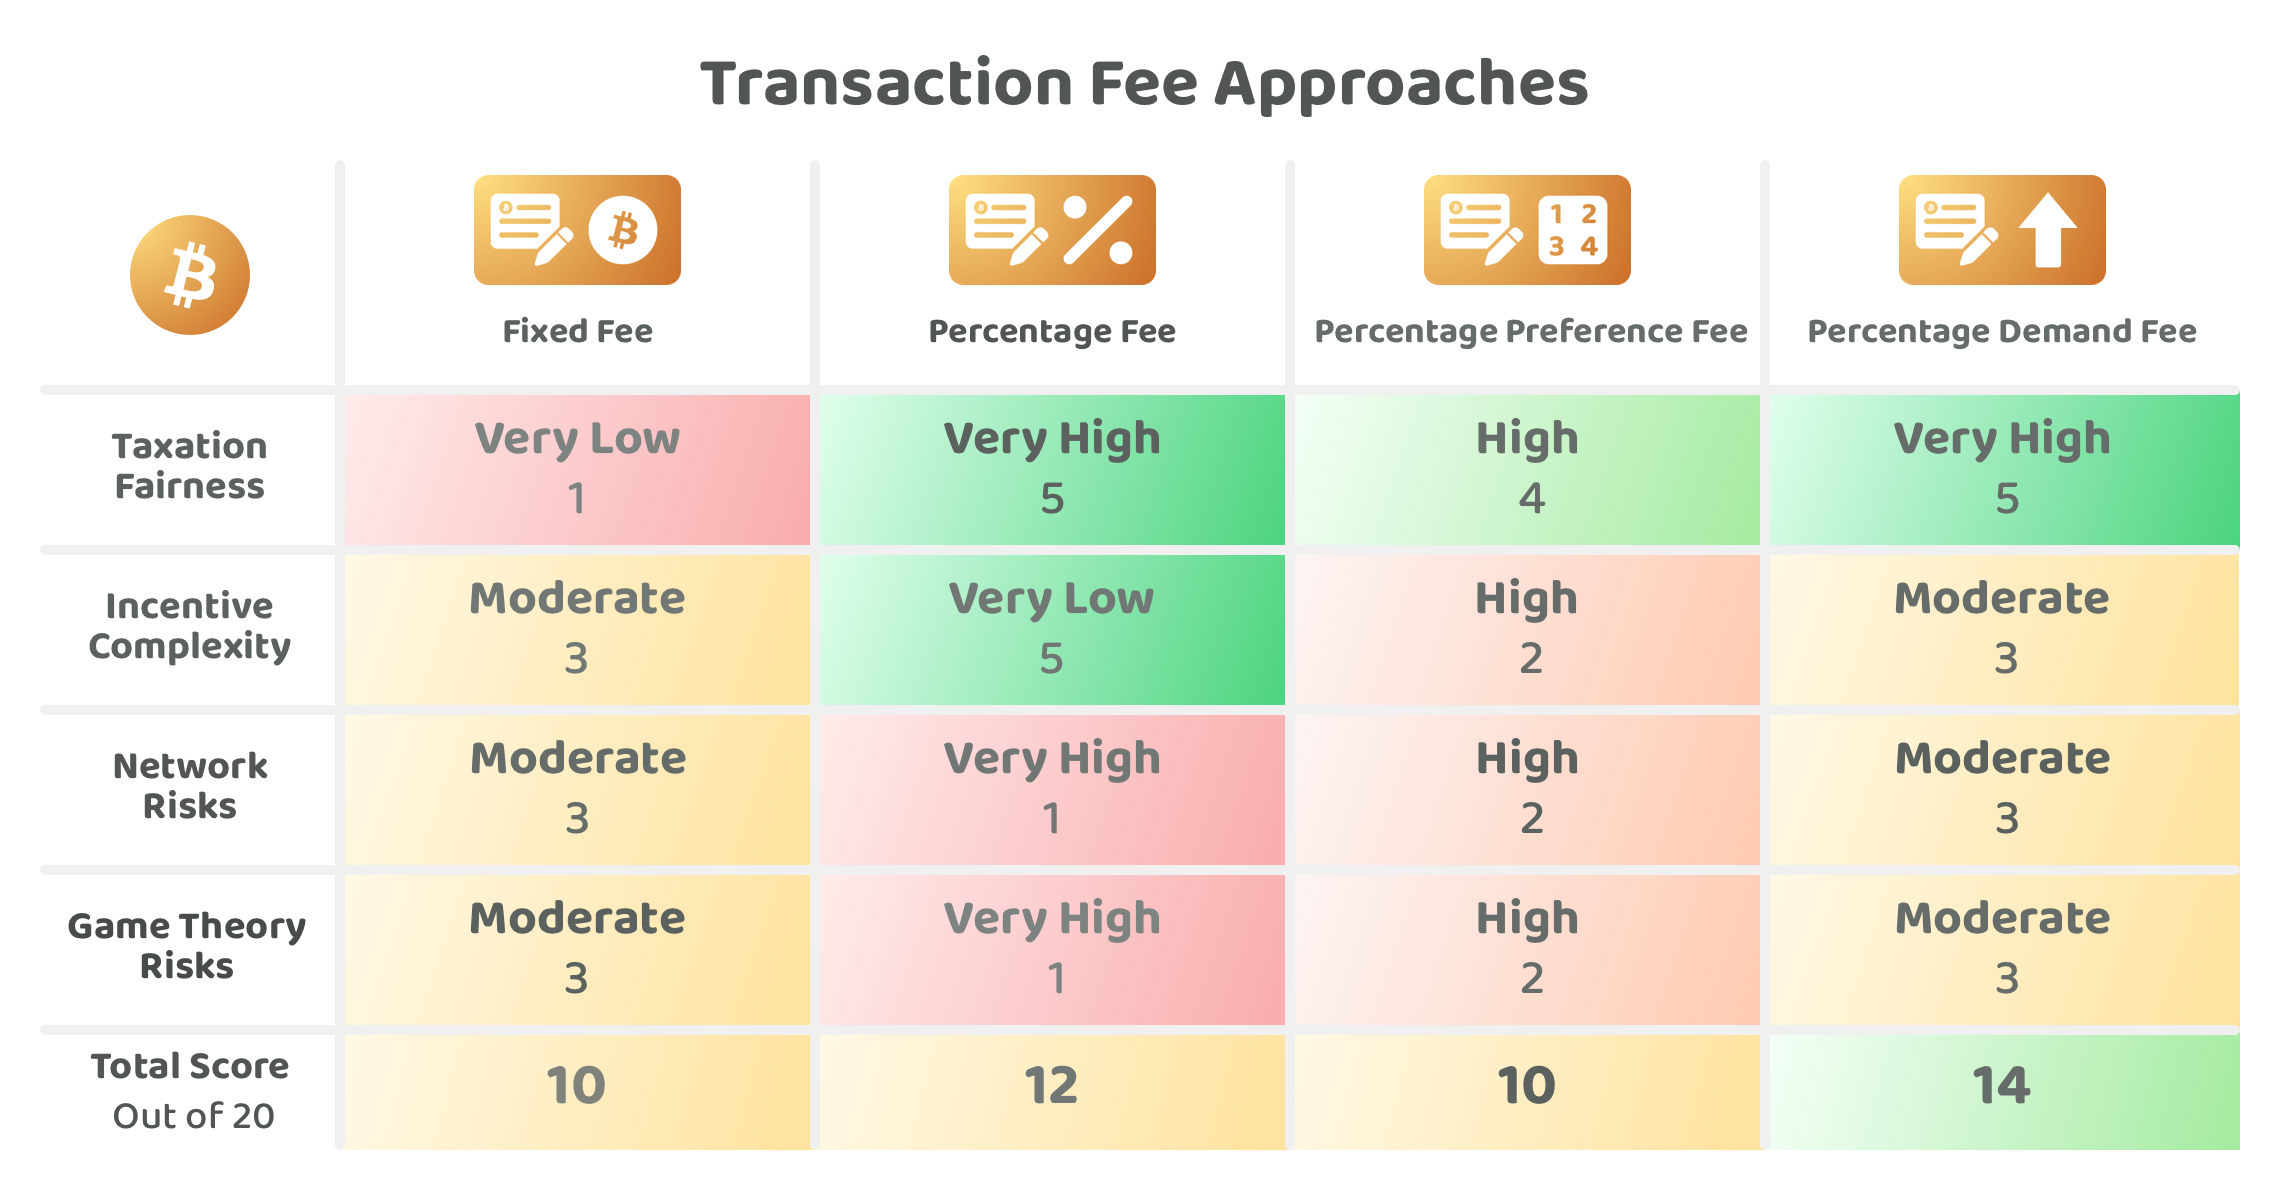
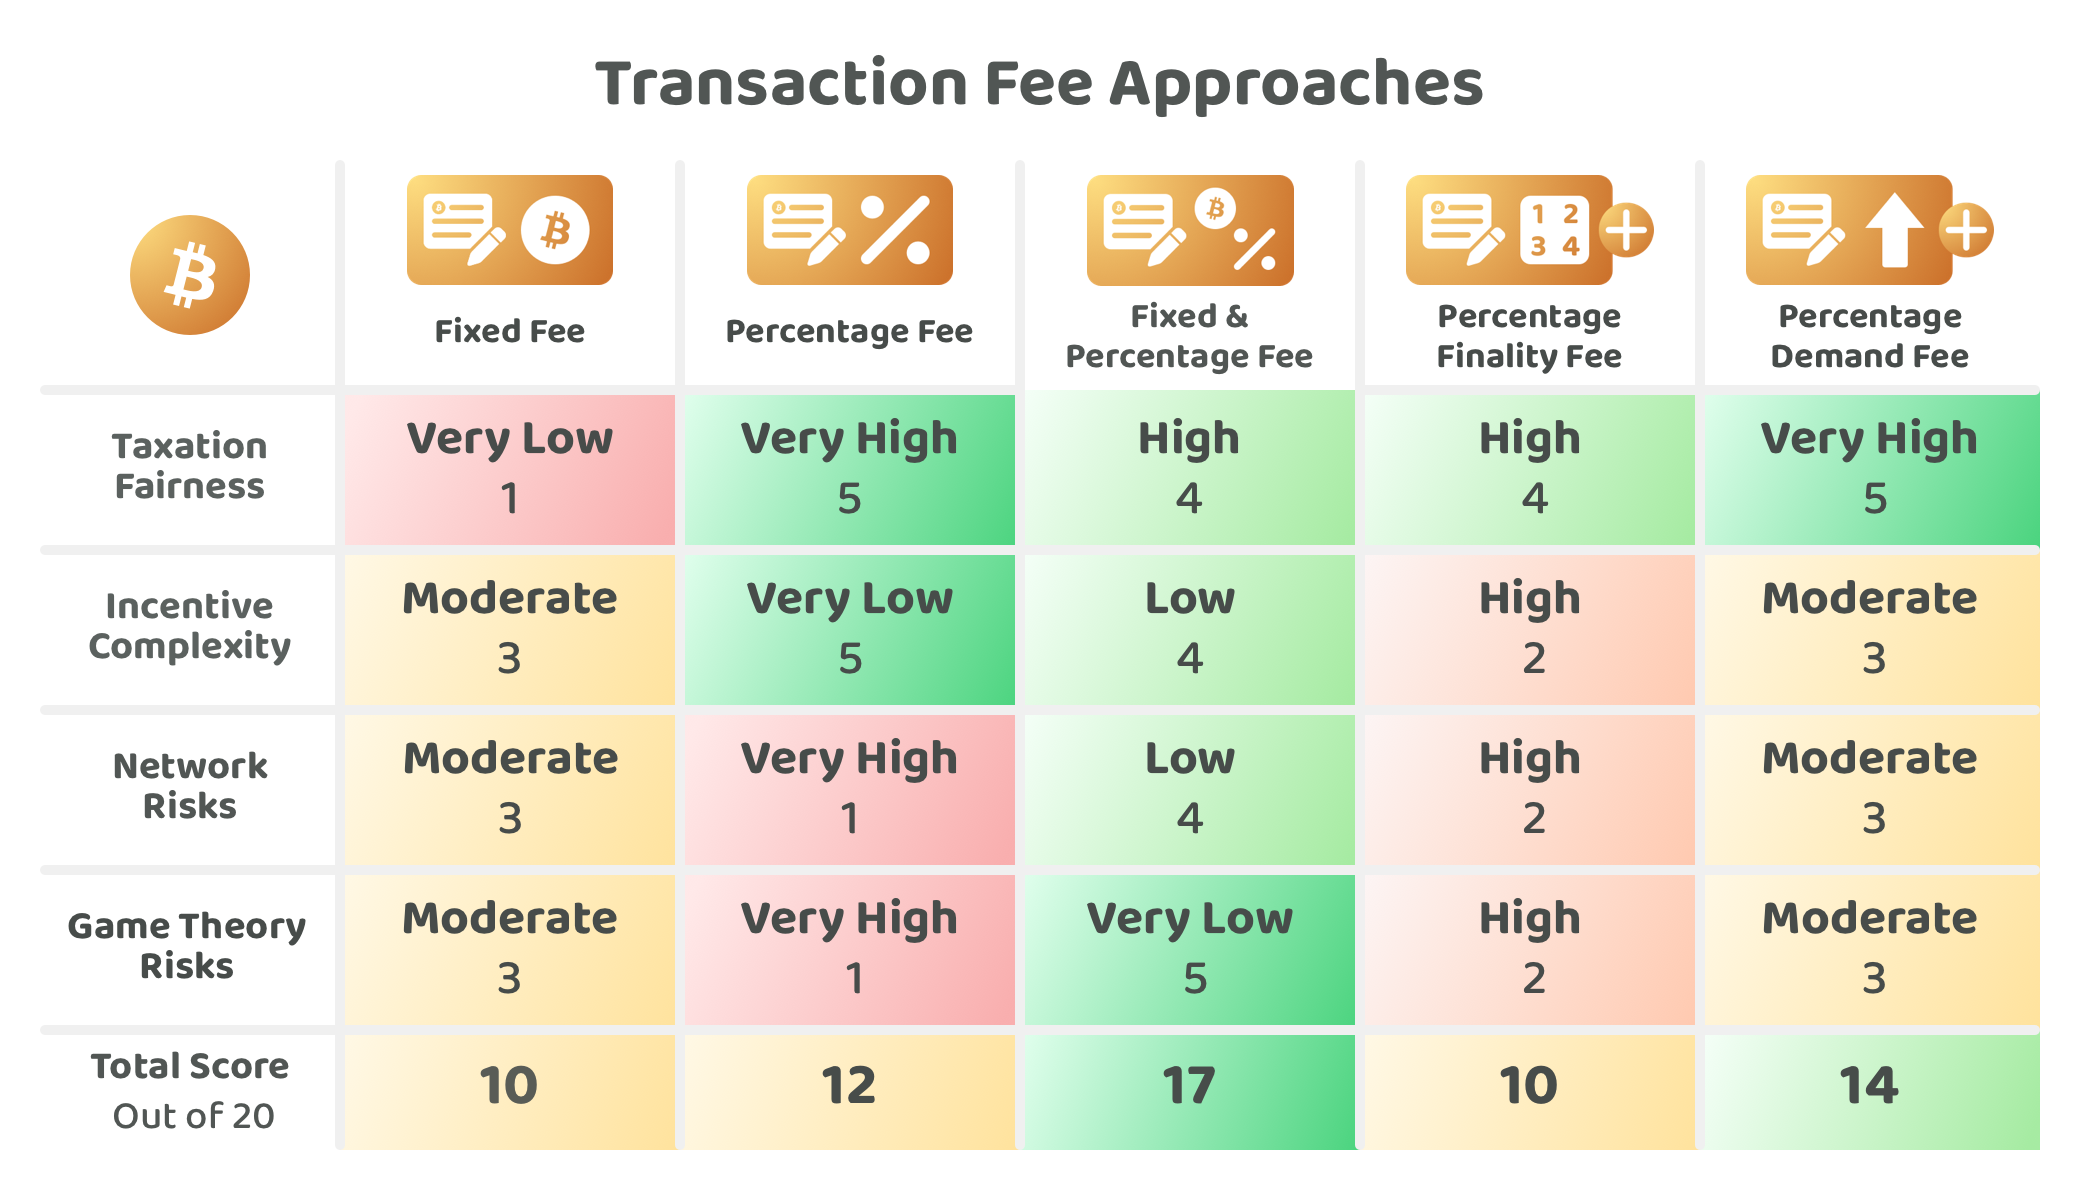
GITBOOK-12: No subject

diff --git a/approaches/transaction-fee-approaches/fixed-and-percentage-fee.md b/approaches/transaction-fee-approaches/fixed-and-percentage-fee.md
@@ -1,0 +1,43 @@
+---
+description: A combination of both fixed fee and percentage fee approaches
+---
+
+# Fixed & percentage fee
+
+<div align="left">
+
+<figure><img src="../../.gitbook/assets/transaction-fee-fixed-percentage.png" alt="" width="150"><figcaption></figcaption></figure>
+
+</div>
+
+
+
+A combination of fixed fee and percentage means that every transaction would have a certain amount that is a fixed fee and the remaining fee is percentage based. The reason that this approach could be effective is the fixed fee would represent a minimum fee that can help with ensuring the network is sustainable and stable when people try to submit a large volume of transactions. This is needed as a percentage fee approach has the risk that the users could overload the network with cheap transactions to congest the network. A minimum fixed fee approach helps to protect the network against this behaviour by ensuring that the fixed fee is high enough to pay for the hardware and operating costs that are required to run the network during these periods of high usage and transaction volume. Adding the percentage fee on top of this helps to ensure that the wealthiest individuals pay a proportional share of the tax based on the amount of wealth they are transacting with. This combination approach ensures the stability of the network using a minimum fee and combines it with the fairness of proportional percentage based taxation fees.
+
+
+
+**High taxation fairness (Score - 4)**
+
+People are taxed based on the amount of value they are sending across the network. A percentage approach scales to treat all levels of wealth equally. People would pay fees relative to the wealth that they transact with when using the network. Everyone would nearly pay proportionally the same amount based on the value of assets they transact with. The minimum fixed fee does result in the poorest individuals paying more in tax as the fixed fee will proportionally increase their taxation rate. This reduces the fairness of this combined approach as it means there is still a benefit for the wealthiest individuals who would proportionally pay slightly less tax than poorer individuals. This factor increases the importance of creating highly scalable systems that can greatly reduce their minimum fixed fee. The lower the minimum fixed fee the more egalitarian and fair the taxation system becomes as the proportional percentage fee would increasingly represent the majority of the taxation amount.
+
+
+
+**Low incentive complexity (Score - 4)**
+
+Each community member will pay the same fees relative to the value of the assets that they are transacting with as well as the minimum fixed fee per transaction. This creates an incentive for people to not move their assets around unless that transaction will provide them sufficient value. Users transacting with the same value of assets would pay the same fee. This fee approach helps to make a similar experience for users when making transactions as they will be a proportional amount in taxation. The minimum fee does give wealthier individuals a slight advantage as their proportional taxation amount will be slightly lower. Wealthier individuals could have some incentive to take advantage of the fact that the minimum fixed fee gives them a taxation advantage compared to poorer individuals.  The lower the minimum fixed fee is the less that tihs is an issue.&#x20;
+
+&#x20;
+
+**Low network risks (Score - 4)**
+
+The minimum fixed fee would protect the network from bad actors being able to spam the network to degrade the network performance. Bad actors could still try to do this but the cost of the attack would be much higher due to the usage of a minimum fixed fee. Over the long term wealthier individuals would also be paying a proportional amount of taxation based on their wealth. This usage of percentage fees as well as a minimum fixed fee helps to ensure the wealth individuals are not given an advantage over poorer individuals. There is still a small risk that the minimum fixed fee gives a small advantage to wealthier individuals over time and this leads to more concentration of wealth. The smaller the minimum fixed fee is the lower the risks are for the network in terms of giving wealthier individuals an advantage. The percentage fee approach would help to ensure there is a long term viable solution for generating enough tax for the ecosystem to pay for validators and any maintenance and improvement of the network.
+
+
+
+**Very low game theory risks (Score - 5)**
+
+Bad actors would not be able to spam the network with transactions cheaply due to the minimum fixed fee. Wealthier individuals would also not be able to exploit the network as easily by submitting multiple transactions as they would have to pay a proportional percentage fee based on the amount of wealth they were transacting with. Providing the minimum fixed fee is sufficiently high enough to maintain network stability there is a relatively low risk that the network will be degraded for any long period of time due to the costs involved in attacking the network from both a transaction volume perspective as well as a wealth based transaction one.
+
+
+
+**Total score = 17 / 20**

diff --git a/approaches/transaction-fee-approaches/percentage-fee.md b/approaches/transaction-fee-approaches/percentage-fee.md
@@ -12,13 +12,13 @@ description: >-
 
 </div>
 
-A percentage fee means that the value of the transaction will determine the fee amount. The larger the value of the transaction the larger the fee. This approach is fairer to the users of the network as each user has a different amount of wealth. Users will pay transaction fees proportional to the value of the assets they are transacting with. The main issue with percentage fees is that they do not protect the network from people making small transactions with tiny fees which could then be repeatedly created to flood the network with transactions. Networks will likely require some form of minimum fixed fee to protect the network from this behaviour. Percentage fees could however be used at the point where the minimum threshold value for a transaction has been met and the percentage fee starts to become larger than the minimum fixed fee.
+A percentage fee means that the value of the transaction will determine the fee amount. The larger the value of the transaction the larger the fee. This approach is fairer to the users of the network as each user has a different amount of wealth. Users will pay transaction fees proportional to the value of the assets they are transacting with. The main issue with percentage fees is that they do not protect the network from people making small transactions with tiny fees which could then be repeatedly submitted to flood the network with many transactions. A percentage fixed fee approach is not effective for maximising network stability due to this attack vector.
 
 
 
 **Very high taxation fairness (Score - 5)**
 
-People are taxed based on the amount of value they are sending across the network. A percentage approach scales to treat all levels of wealth equally. People would pay fees relative to the wealth that they transact with across the network. Everyone could pay proportionally the same amount based on the value of assets they transact with.
+People are taxed based on the amount of value they are sending across the network. A percentage approach scales to treat all levels of wealth equally. People would pay fees relative to the wealth that they transact with across the network. Everyone would pay proportionally the same amount based on the value of assets they transact with.
 
 
 
@@ -30,7 +30,7 @@ Each community member will pay the same fees relative to the value of the assets
 
 **Very high network risks (Score - 1)**
 
-A percentage fee approach on its own would be highly risky for a network due to how cheap it would be to spam the network with a large volume of small transactions with tiny fees. This could make it much easier to halt the network due to excessive demand that would be easily repeatable due to the very low cost when sending very small amounts. A minimum fixed fee approach would likely also be needed whenever a percentage fee approach is being used to prevent people from being able to spam the network as easily.
+A percentage fee approach on its own would be highly risky for a network due to how cheap it would be to spam the network with a large volume of small transactions with tiny fees. This could make it much easier to halt the network due to excessive demand that would be easily repeatable due to the very low cost when sending very small amounts. Without a minimum fixed fee a percentage approach would be highly at risk of spam attacks.
 
 
 
@@ -40,4 +40,4 @@ Malicious actors could exploit the cheap fees on small transactions to flood the
 
 
 
-**Total - 12 / 20**
+**Total score = 12 / 20**

diff --git a/approaches/transaction-fee-approaches/README.md b/approaches/transaction-fee-approaches/README.md
@@ -18,8 +18,11 @@ The following are some example transaction fee approaches that could be used for
 
 * [**Fixed fee**](fixed-fee.md) - A fixed fee amount is charged to create a transaction, the fee amount stays the same regardless of how big or small the transaction is.
 * [**Percentage fee**](percentage-fee.md) - The fee is a percentage amount calculated using the total transaction value. The larger the value of a transaction the larger the fee.
+* [**Fixed & percentage fee**](fixed-and-percentage-fee.md) - The fee is a combination of the fixed fee and percentage fee approaches.
 * [**Percentage finality fee**](percentage-finality-fee.md) - Transactions could be prioritised when users are willing to pay a higher percentage fee than the other submitted transactions.
 * [**Percentage demand fee**](percentage-demand-fee.md) - The fees to make transactions on the network are increased when the network has a high or excessive amount of transaction volume demand.
+
+
 
 To compare these decision approaches a number of [factors have been considered](transaction-fee-factors-for-consideration.md) and then applied to each approach to try and determine the strengths and weaknesses of each one.
 
@@ -50,6 +53,10 @@ To compare these decision approaches a number of [factors have been considered](
 
 {% content-ref url="percentage-fee.md" %}
 [percentage-fee.md](percentage-fee.md)
+{% endcontent-ref %}
+
+{% content-ref url="fixed-and-percentage-fee.md" %}
+[fixed-and-percentage-fee.md](fixed-and-percentage-fee.md)
 {% endcontent-ref %}
 
 {% content-ref url="percentage-finality-fee.md" %}

diff --git a/approaches/transaction-fee-approaches/percentage-demand-fee.md b/approaches/transaction-fee-approaches/percentage-demand-fee.md
@@ -8,9 +8,11 @@ description: >-
 
 <div align="left">
 
-<figure><img src="../../.gitbook/assets/transaction-fee-demand.png" alt="" width="150"><figcaption></figcaption></figure>
+<figure><img src="../../.gitbook/assets/transaction-fee-demand.png" alt="" width="180"><figcaption></figcaption></figure>
 
 </div>
+
+
 
 A demand fee means that the network would dynamically increase the transaction fee amount when the load on the network becomes too high or when it has gone beyond what it can handle. A percentage demand fee means that the fee would be increased proportionally to the value of the transactions being made. Demand based fees can be an effective approach for better balancing the demand within a network as users would be incentivised to avoid the demand based fees and use the network when it is cheapest to do so. Demand based fees can also be an effective way for increasing the amount of income the network receives to pay for node operators. For horizontally scalable networks the demand fee income could be used to directly incentivise more node operators to come online. Percentage fees are recommended as if this was a fixed fee the richest individuals in the network would be getting a proportionally cheaper fee on an ongoing basis compared to the value of the transactions they are making. This means they could more easily prioritise their transactions on an ongoing basis in the network.
 
@@ -40,4 +42,4 @@ Malicious actors would need to pay an increased fee to continuously try and atta
 
 
 
-**Total - 14 / 20**
+**Total score = 14 / 20**

diff --git a/SUMMARY.md b/SUMMARY.md
@@ -14,6 +14,7 @@
   * [Transaction fee factors for consideration](approaches/transaction-fee-approaches/transaction-fee-factors-for-consideration.md)
   * [Fixed fee](approaches/transaction-fee-approaches/fixed-fee.md)
   * [Percentage fee](approaches/transaction-fee-approaches/percentage-fee.md)
+  * [Fixed & percentage fee](approaches/transaction-fee-approaches/fixed-and-percentage-fee.md)
   * [Percentage finality fee](approaches/transaction-fee-approaches/percentage-finality-fee.md)
   * [Percentage demand fee](approaches/transaction-fee-approaches/percentage-demand-fee.md)
 

diff --git a/approaches/transaction-fee-approaches/percentage-finality-fee.md b/approaches/transaction-fee-approaches/percentage-finality-fee.md
@@ -8,7 +8,7 @@ description: >-
 
 <div align="left">
 
-<figure><img src="../../.gitbook/assets/transaction-fee-finality.png" alt="" width="150"><figcaption></figcaption></figure>
+<figure><img src="../../.gitbook/assets/transaction-fee-finality.png" alt="" width="180"><figcaption></figcaption></figure>
 
 </div>
 
@@ -40,4 +40,4 @@ Wealthy individuals would have a larger opportunity to exploit the network and o
 
 
 
-**Total - 12 / 20**
+**Total score = 12 / 20**

diff --git a/approaches/transaction-fee-approaches/fixed-fee.md b/approaches/transaction-fee-approaches/fixed-fee.md
@@ -38,4 +38,4 @@ Wealthier individuals could try to exploit the fact that their transaction fees 
 
 
 
-**Total - 10 / 20**
+**Total score = 10 / 20**
